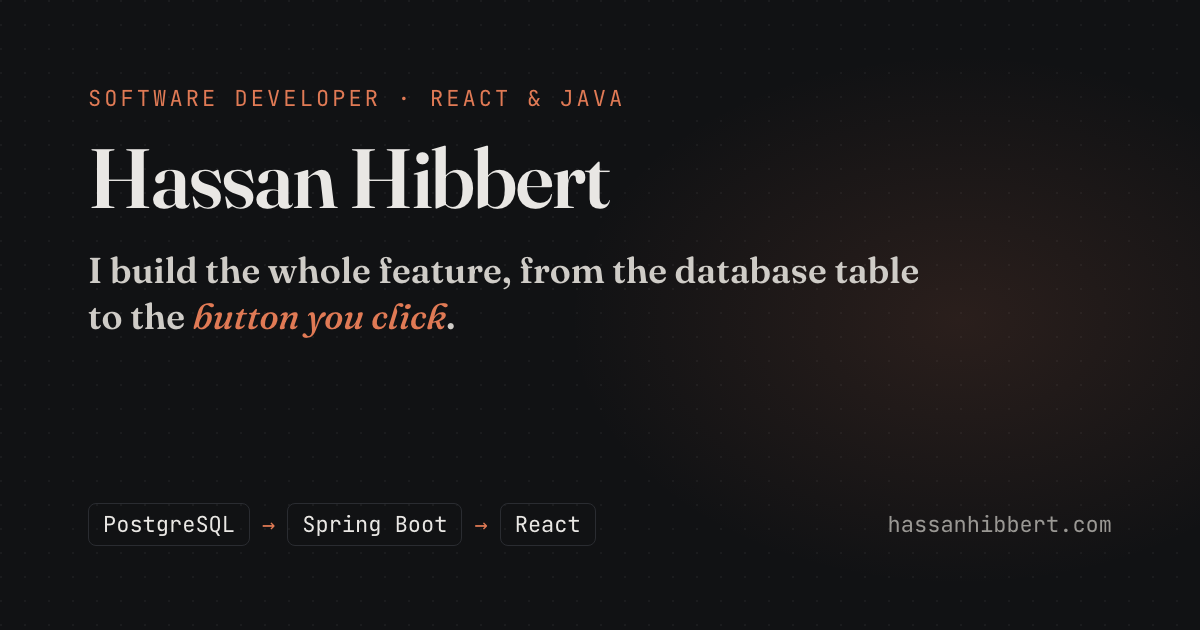
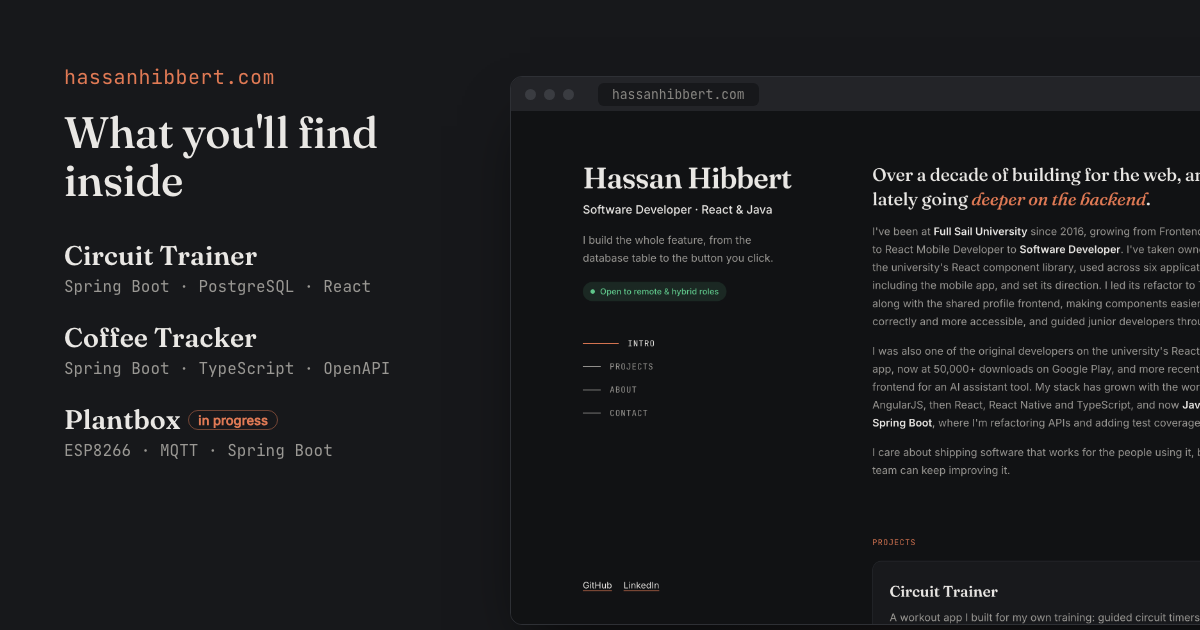
feat: preview image shows the site and its projects

diff --git a/src/index.html b/src/index.html
@@ -59,7 +59,7 @@
     <meta property="og:image:height" content="630" />
     <meta
       property="og:image:alt"
-      content="Hassan Hibbert, Software Developer, React and Java. I build the whole feature, from the database table to the button you click."
+      content="Preview of hassanhibbert.com, listing the projects inside: Circuit Trainer, Coffee Tracker and Plantbox."
     />
     <meta name="twitter:card" content="summary_large_image" />
     <meta
